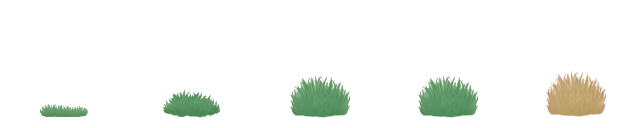
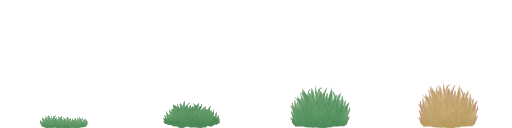
curr progress

Changed region(s): [[0.25, 0.5938, 0.75, 1.0], [0.8125, 0.5625, 0.9688, 1.0], [0.0625, 0.8125, 0.1875, 1.0]]

diff --git a/core/src/com/strategy/game/map/daemon/GrassChange.java b/core/src/com/strategy/game/map/daemon/GrassChange.java
@@ -24,16 +24,14 @@ public class GrassChange {
     private List<Grass> grassList;
     private Grass[][] currGrassInForest;
     private Random random = new Random();
-    int currentIter;
 
     @SneakyThrows
-    public GrassChange(Map map, String climate, Season startSeason) {
+    public GrassChange(Map map, String climate, Season startSeason, int startSeasonBirthIter) {
         this.map = map;
         this.grassLayer = (TiledMapTileLayer) map.getMap().getLayers().get(2);
         this.grassList = new ArrayList<>();
-        this.currentIter = 0;
         this.currGrassInForest = initializeCurrGrassInForest();
-        loadGrass(climate, startSeason);
+        loadGrass(climate, startSeasonBirthIter);
         initializeGrass(startSeason);
     }
 
@@ -47,7 +45,7 @@ public class GrassChange {
         return currGrassInForest;
     }
 
-    private void loadGrass(String climate, Season startSeason) throws IOException {
+    private void loadGrass(String climate, int startSeasonBirthIter) throws IOException {
         List<Path> paths = Files.list(Path.of("assets/tiles/climate/" + climate + "/forest/grass")).toList();
         for (Path path: paths) {
             Texture texture = new Texture(path.toString());
@@ -55,8 +53,8 @@ public class GrassChange {
             Grass grass = new Grass(
                     Season.Spring,
                     Season.Autumn,
-                    0.2,
-                    4,
+                    0.1,
+                    startSeasonBirthIter,
                     path.getFileName().toString(),
                     PlantType.Tree,
                     1,1, 3, 1, 3, 3,
@@ -68,30 +66,136 @@ public class GrassChange {
     }
 
     public void initializeGrass(Season startSeason) {
-        for (Grass grass: grassList) {
-            for (int i = 0; i < currGrassInForest.length; i++) {
-                for (int j = 0; j < currGrassInForest[0].length; j++) {
-                    int probability = random.nextInt((int)(((grass.getLifeProbability() * currentIter) / (double) grassList.size()) * 10.));
-                    Grass newGrass = new Grass(grass);
-                    if (probability == 0) {
-                        if (startSeason != Season.Winter) {
-                            if (startSeason != Season.Summer) {
-                                newGrass.setTile(determineStartGrassTile(grass.getTiles(), startSeason, grassList.indexOf(grass)));
-                            }
-                            setGrass(newGrass, i, j);
+        for (int i = 0; i < currGrassInForest.length; i++) {
+            for (int j = 0; j < currGrassInForest[0].length; j++) {
+                Grass grass = grassList.get(random.nextInt(grassList.size()));
+                int probability = random.nextInt((int)((grass.getLifeProbability() * 15) / grassList.size() * 5.)); // 4 is default start season iter
+                Grass newGrass = new Grass(grass);
+                if (probability == 0) {
+                    if (startSeason != Season.Winter) {
+                        if (startSeason != Season.Summer) {
+                            newGrass.setTile(determineStartGrassTile(grass.getTiles(), startSeason, grassList.indexOf(grass)));
                         }
+                        setGrass(newGrass, i, j);
                     }
                 }
             }
         }
     }
 
-    public void nextGrassGrowsIter(Season currentSeason) {
+    public void nextGrassGrowsIter(Season currentSeason, int currentSeasonIter) {
         for (int i = 0; i < grassLayer.getWidth(); i++) {
             for (int j = 0; j < grassLayer.getHeight(); j++) {
-
+                Grass currentGrass = currGrassInForest[i][j];
+                if (currentGrass != null) {
+                    Grass grass = grassList.get(random.nextInt(grassList.size()));
+                    if (currentSeason == Season.Spring && currentSeasonIter == grass.getStartSeasonBirthIter() - 1) {
+                        initializeGrass(currentSeason);
+                    }
+                    else if (currentSeason == Season.Spring && currentSeasonIter >= grass.getStartSeasonBirthIter()) {
+                        System.out.println(currentSeason);
+                        int probability = random.nextInt((int) (grass.getLifeProbability() * currentSeasonIter * currentSeasonIter + 1));
+                        if (probability == 0) {
+                            growNewGrass(grass, i, j);
+                        }
+                    }
+                    currentGrass.grow(currentSeason.name());
+                    if (currentGrass.isAlive())
+                        setGrass(currentGrass, i, j);
+                    else
+                        setGrass(null, i, j);
+                }
             }
         }
+    }
+
+    public void growNewGrass(Grass grass, int i, int j) {
+        for (int k = 0; k < grass.getFertility(); k++) {
+            int x, y;
+            if (k % 2 == 0) {
+                x = random.nextInt(i + 1, i + 2);
+                y = random.nextInt(j + 1, j + 2);
+            } else if (k % 3 == 0) {
+                x = random.nextInt(i + 1, i + 2);
+                y = random.nextInt(j - 2, j - 1);
+            } else if (k % 5 == 0) {
+                x = random.nextInt(i - 2, i - 1);
+                y = random.nextInt(j + 1, j + 2);
+            } else {
+                x = random.nextInt(i - 2, i - 1);
+                y = random.nextInt(j - 2, j - 1);
+            }
+            if (checkNearGrass(x, y)) {
+                Grass newGrass = new Grass(grass);
+                newGrass.setTile(newGrass.getTiles()[0][0]);
+                currGrassInForest[x][y] = newGrass;
+                setGrass(newGrass, x, y);
+                return;
+            }
+        }
+    }
+
+    private boolean checkNearGrass(int x, int y) {
+        if (x < grassLayer.getWidth() && x >= 0 && y < grassLayer.getHeight() && y >= 0) {
+            int nearWithoutBordersCase = random.nextInt(40);
+            if (nearWithoutBordersCase == 0)
+                return true;
+
+            boolean xMinus1y = false;
+            if (x - 1 >= grassLayer.getWidth() || x - 1 < 0)
+                xMinus1y = true;
+            else if (grassLayer.getCell(x - 1, y).getTile().getTextureRegion().equals(map.getTransparent()))
+                xMinus1y = true;
+
+            boolean xPlus1y = false;
+            if (x + 1 >= grassLayer.getWidth())
+                xPlus1y = true;
+            else if (grassLayer.getCell(x + 1, y).getTile().getTextureRegion().equals(map.getTransparent()))
+                xPlus1y = true;
+
+            boolean xyPlus1 = false;
+            if (y + 1 >= grassLayer.getHeight())
+                xyPlus1 = true;
+            else if (grassLayer.getCell(x, y + 1).getTile().getTextureRegion().equals(map.getTransparent()))
+                xyPlus1 = true;
+
+            boolean xyMinus1 = false;
+            if (y - 1 >= grassLayer.getHeight()|| y - 1 < 0)
+                xyMinus1 = true;
+            else if (grassLayer.getCell(x, y - 1).getTile().getTextureRegion().equals(map.getTransparent()))
+                xyMinus1 = true;
+
+            boolean xPlus1yPlus1 = false;
+            if (x + 1 >= grassLayer.getWidth() || y + 1 >= grassLayer.getHeight())
+                xPlus1yPlus1 = true;
+            else if (grassLayer.getCell(x + 1, y + 1).getTile().getTextureRegion().equals(map.getTransparent()))
+                xPlus1yPlus1 = true;
+
+            boolean xMinus1yPlus1 = false;
+            if (x - 1 >= grassLayer.getWidth() || x - 1 < 0 || y + 1 >= grassLayer.getHeight())
+                xMinus1yPlus1 = true;
+            else if (grassLayer.getCell(x - 1,y + 1).getTile().getTextureRegion().equals(map.getTransparent()))
+                xMinus1yPlus1 = true;
+
+            boolean xPlus1yMinus1 = false;
+            if (x + 1 >= grassLayer.getWidth() || y - 1 >= grassLayer.getHeight() || y - 1 < 0)
+                xPlus1yMinus1 = true;
+            else if (grassLayer.getCell(x + 1,y - 1).getTile().getTextureRegion().equals(map.getTransparent()))
+                xPlus1yMinus1 = true;
+
+            boolean xMinus1yMinus1 = false;
+            if (x - 1 >= grassLayer.getWidth() || x - 1 < 0 || y - 1 >= grassLayer.getHeight() || y - 1 < 0)
+                xMinus1yMinus1 = true;
+            else if (grassLayer.getCell(x - 1,y - 1).getTile().getTextureRegion().equals(map.getTransparent()))
+                xMinus1yMinus1 = true;
+            int nearCase = random.nextInt(2);
+            if (nearCase == 0) {
+                return xyMinus1 && xyPlus1 && xMinus1y && xPlus1y;
+            } else {
+                return xPlus1yPlus1 && xMinus1yPlus1 && xPlus1yMinus1 && xMinus1yMinus1 && xyMinus1 && xyPlus1 && xMinus1y && xPlus1y;
+            }
+        }
+        return false;
     }
 
     private Grass determineGrass(Grass grass) {

diff --git a/core/src/com/strategy/game/map/forest/Grass.java b/core/src/com/strategy/game/map/forest/Grass.java
@@ -11,13 +11,14 @@ public class Grass extends Plant {
     private Season startGrowth;
     private Season endGrowth;
     private double lifeProbability;
-
     private int startSeasonBirthIter;
+    private Random random = new Random();
+
 
     public Grass(Season startGrowth,
                  Season endGrowth,
                  double lifeProbability,
-                 int startSeasonBrithIter,
+                 int startSeasonBirthIter,
                  String plantName,
                  PlantType plantType,
                  int growthStep,
@@ -32,7 +33,7 @@ public class Grass extends Plant {
         this.startGrowth = startGrowth;
         this.endGrowth = endGrowth;
         this.lifeProbability = lifeProbability;
-        this.startSeasonBirthIter = startSeasonBrithIter;
+        this.startSeasonBirthIter = startSeasonBirthIter;
     }
 
     public Grass(Grass grass) {
@@ -56,38 +57,39 @@ public class Grass extends Plant {
 
     @Override
     public int grow(String currentSeason) {
-        setAge(getAge() + 1);
-        int newGrowthStatus = 0;
-        // Death trigger
-        Random random = new Random(getAge());
-        if (!isAlive()) {
-            setTile(getTiles()[0][4]);
+        int oldAge = getAge();
+        if (getAge() < getAgeThreshold()) {
+            if (random.nextInt(2) == 0) {
+                setAge(getAge() + 1);
+            }
         }
-        else if (isGrassAlive(Season.valueOf(currentSeason))) {
-            setAlive(false);
-            return newGrowthStatus;
-        }
-        // Growth trigger
-        if (getAge() % getGrowthStep() == 0 && getGrowthStatus() < getGrowthThreshold()) {
-            setLastGrowthStatus(getGrowthStatus());
-            newGrowthStatus = getLastGrowthStatus() + 1;
-            setGrowthStatus(newGrowthStatus);
-        }
-        // Change sprite trigger
-        if (isAlive() && !currentSeason.equals(endGrowth.name())) {
+        // tile changing
+        if (oldAge <= getAge()) {
             setTile(getTiles()[0][getAge() - 1]);
         }
-        else if (isAlive()) {
-            setTile(getTiles()[0][3]);
-            if (random.nextInt((int)getLifeProbability() * 10) == 0) {
+
+        if (getAge() == getAgeThreshold() && currentSeason.equals(Season.Autumn.toString())) {
+            if (random.nextInt(4) == 0) {
+                if (random.nextInt(7) == 0) {
+                    setAlive(false);
+                }
+                setTile(getTiles()[0][3]);
+            }
+        }
+        if (currentSeason.equals(Season.Autumn.toString()) && getTile().equals(getTiles()[0][3])) {
+            if (random.nextInt(3) == 0) {
                 setAlive(false);
             }
         }
-        else { // if grass is dead
-            setTile(getTiles()[0][4]);
+        if (currentSeason.equals(Season.Winter.toString())) {
+            if (isAlive()) {
+                if (random.nextInt(3) < 2) {
+                    setAlive(false);
+                }
+                setTile(getTiles()[0][3]);
+            }
         }
-
-        return newGrowthStatus;
+        return getAge();
     }
 
     @Override

diff --git a/core/src/com/strategy/game/Strategy.java b/core/src/com/strategy/game/Strategy.java
@@ -35,6 +35,8 @@ public class Strategy extends ApplicationAdapter {
 	private SpriteBatch batch;
 	private Season currentSeason;
 	private String climate;
+	private int currentSeasonIter;
+	private int grassStartBirthIter;
 
 	private int yearCount = 0;
 	private int year = 0;
@@ -55,8 +57,10 @@ public class Strategy extends ApplicationAdapter {
 		font = new BitmapFont();
 		batch = new SpriteBatch();
 
-		currentSeason = Season.Summer;
+		currentSeason = Season.Spring;
+		currentSeasonIter = 4;
 		climate = "temperate";
+		grassStartBirthIter = 3;
 
 		map = new Map(
 				25,
@@ -64,25 +68,25 @@ public class Strategy extends ApplicationAdapter {
 				128,
 				128,
 				new Texture("assets/tiles/climate/temperate/plain_temperate_seasons128.png"),
-				Season.Summer
+				currentSeason
 		);
 
-		seasonChange = new SeasonChange(map);
+		seasonChange = new SeasonChange(map, currentSeasonIter);
 
 		forestChange = new ForestChange(map, climate, currentSeason);
 
-		grassChange = new GrassChange(map, climate, currentSeason);
-
+		grassChange = new GrassChange(map, climate, currentSeason, grassStartBirthIter);
 
 		new Thread(() -> {
 			while (true) {
 				try {
-					seasonChange.temperateSeasonChanging();
+					currentSeasonIter = seasonChange.temperateSeasonChanging(currentSeasonIter);
 					if (seasonChange.getCurrentSeasonIter() == 9) {
-						forestChange.nextForestGrowsIter(seasonChange.determineTemperateNextSeason());
+						currentSeason = (seasonChange.determineTemperateNextSeason());
+						forestChange.nextForestGrowsIter(currentSeason);
 						yearCount++;
 					}
-					grassChange.nextGrassGrowsIter(currentSeason);
+					grassChange.nextGrassGrowsIter(currentSeason, currentSeasonIter);
 					if (yearCount == 4) {
 						year++;
 						yearCount = 0;
@@ -92,14 +96,6 @@ public class Strategy extends ApplicationAdapter {
 				}
 			}
 		}).start();
-
-		/*
-		new Thread(() -> {
-			while (true) {
-				forestChange.nextForestGrowsIter(currentSeason);
-			}
-		}).start();
-		 */
 
 		renderer = new OrthogonalTiledMapRenderer(map.getMap());
 	}

diff --git a/core/src/com/strategy/game/map/daemon/SeasonChange.java b/core/src/com/strategy/game/map/daemon/SeasonChange.java
@@ -24,11 +24,11 @@ public class SeasonChange {
     private TiledMapTileLayer layer;
     ArrayList<TextureRegion> prevTiles = new ArrayList<>();
 
-    public SeasonChange(Map map) {
+    public SeasonChange(Map map, int currentSeasonIter) {
         this.map = map;
         this.tiles = map.getTextureRegions();
         this.currentSeason = map.getStartSeason();
-        this.currentSeasonIter = 4;
+        this.currentSeasonIter = currentSeasonIter;
         this.currTile = map.determineDefaultSeasonTile();
         this.nextTile = map.determineDefaultSeasonTile();
         this.layer = (TiledMapTileLayer) map.getMap().getLayers().get(0);
@@ -40,12 +40,11 @@ public class SeasonChange {
         layer.setCell(x, y, new TiledMapTileLayer.Cell().setTile(new StaticTiledMapTile(tile)));
     }
 
-    public void temperateSeasonChanging() throws InterruptedException {
+    public int temperateSeasonChanging(int currentSeasonIter) throws InterruptedException {
         if (currentSeasonIter == 9) {
             currentSeason = determineTemperateNextSeason();
             currentSeasonIter = 0;
-        }
-        while (currentSeasonIter < 9) {
+        } else {
             currTile = nextTile;
             nextTile = determineTemperateNextTile();
             if (currentSeasonIter == 5) {
@@ -96,17 +95,10 @@ public class SeasonChange {
                 }
             }
             currentSeasonIter++;
-            Thread.sleep(300);
         }
-    }
-
-    private boolean isInPrevTiles(TextureRegion tile) {
-        for (TextureRegion prevTile: prevTiles) {
-            if (prevTile.equals(tile)) {
-                return true;
-            }
-        }
-        return false;
+        this.currentSeasonIter = currentSeasonIter;
+        Thread.sleep(1000);
+        return currentSeasonIter;
     }
 
     private boolean isNotAddedTile(ArrayList<SuitableTerrain> addedTerrains, int x, int y) {
